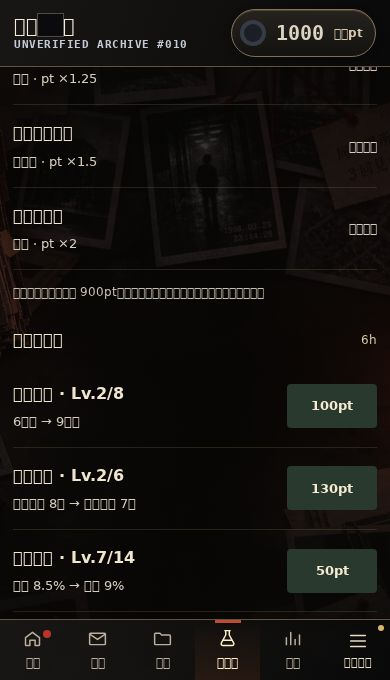
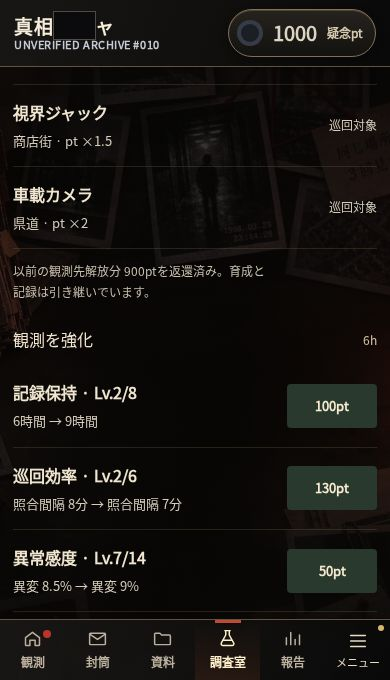
Keep authentication observer on retry and readable reload QA captures

diff --git a/assets/account.js b/assets/account.js
@@ -28,6 +28,7 @@ async function accountLogin(){
  if(!FB||accountBusy||accountPending())return;
  accountLock(true);accountMessage('Googleの認証画面を開いています');
  const {auth,Au}=FB,provider=new Au.GoogleAuthProvider();provider.setCustomParameters({prompt:'select_account'});
+ if(!accountUnsubscribe&&Au.onAuthStateChanged)accountObserveAuth(auth,Au);
  const previous=cloud,previousCanWrite=cloud?.canWrite,guest=auth.currentUser?.isAnonymous;
  accountDetach();
  try{
